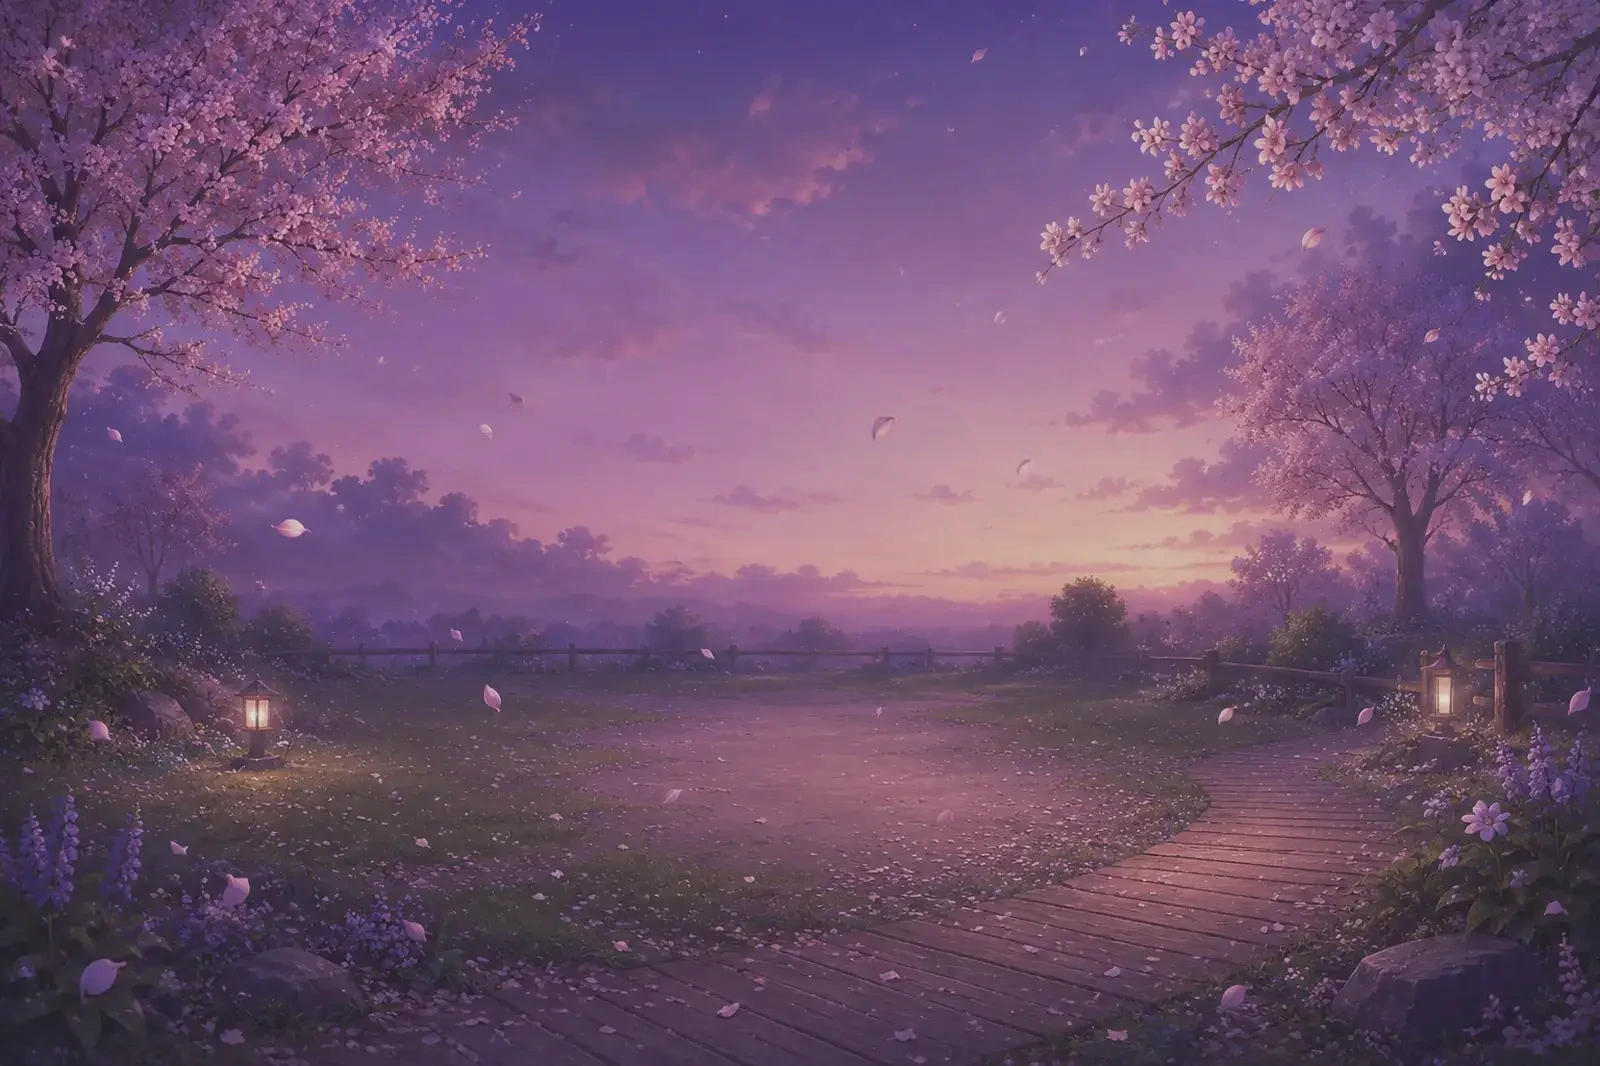
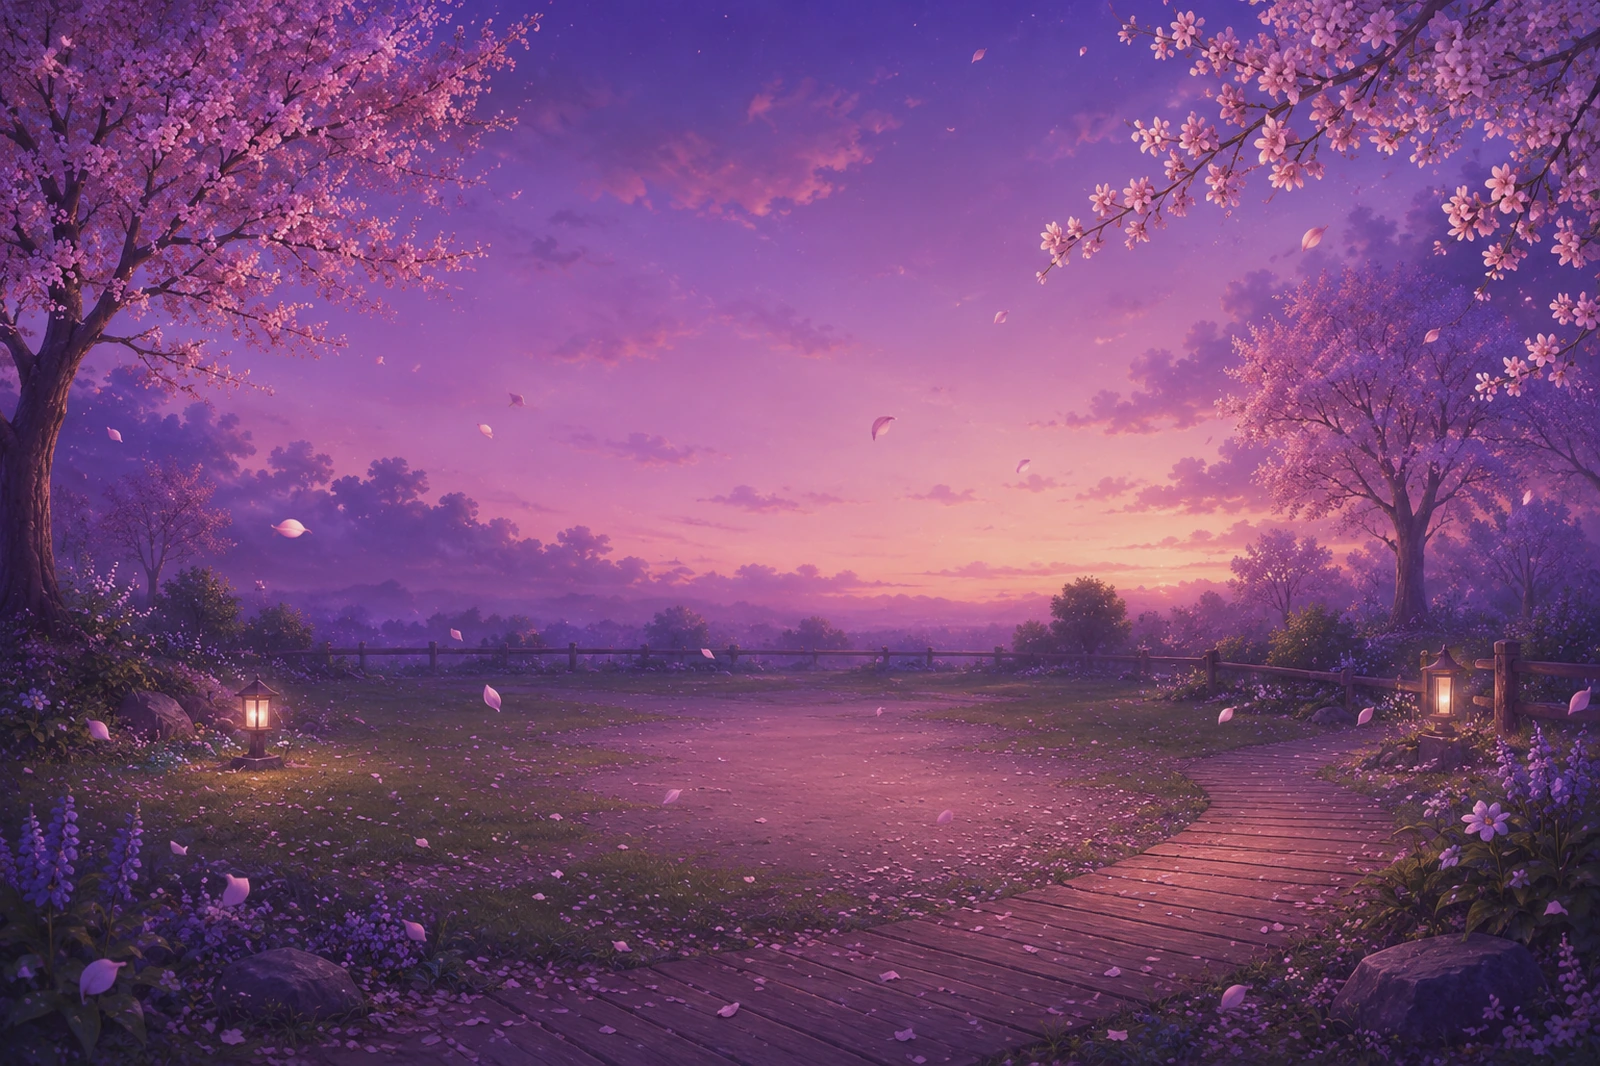
Добавляю тему Кишинёва, пересобираю Сакуру из исходника в высоком качестве

diff --git a/data/translations.js b/data/translations.js
@@ -85,6 +85,7 @@ window.uiText = {
         theme_purple: "Фиолетовый",
         theme_blue: "Голубой",
         theme_sakura: "Сакура",
+        theme_kishinev: "Кишинёв",
         theme_choose_title: "Выбери тему",
         language_choose_title: "Выбери язык",
         lang_name_ru: "Русский",
@@ -290,6 +291,7 @@ window.uiText = {
         theme_purple: "Purple",
         theme_blue: "Blue",
         theme_sakura: "Sakura",
+        theme_kishinev: "Chisinau",
         theme_choose_title: "Choose a theme",
         language_choose_title: "Choose a language",
         lang_name_ru: "Russian",
@@ -495,6 +497,7 @@ window.uiText = {
         theme_purple: "Mov",
         theme_blue: "Albastru",
         theme_sakura: "Sakura",
+        theme_kishinev: "Chișinău",
         theme_choose_title: "Alege o temă",
         language_choose_title: "Alege o limbă",
         lang_name_ru: "Rusă",

diff --git a/js/ui/settings.js b/js/ui/settings.js
@@ -39,7 +39,8 @@ const themeOptions = [
     { id: "pink",   label: t("theme_pink"),   image: "images/backgrounds/theme-pink.webp" },
     { id: "purple", label: t("theme_purple"), image: "images/backgrounds/theme-purple.webp" },
     { id: "blue",   label: t("theme_blue"),   image: "images/backgrounds/theme-blue.webp" },
-    { id: "sakura", label: t("theme_sakura"), image: "images/backgrounds/theme-sakura.webp" }
+    { id: "sakura", label: t("theme_sakura"), image: "images/backgrounds/theme-sakura.webp" },
+    { id: "kishinev", label: t("theme_kishinev"), image: "images/backgrounds/theme-kishinev.webp" }
 ];
 const defaultThemeId = "pink";
 
